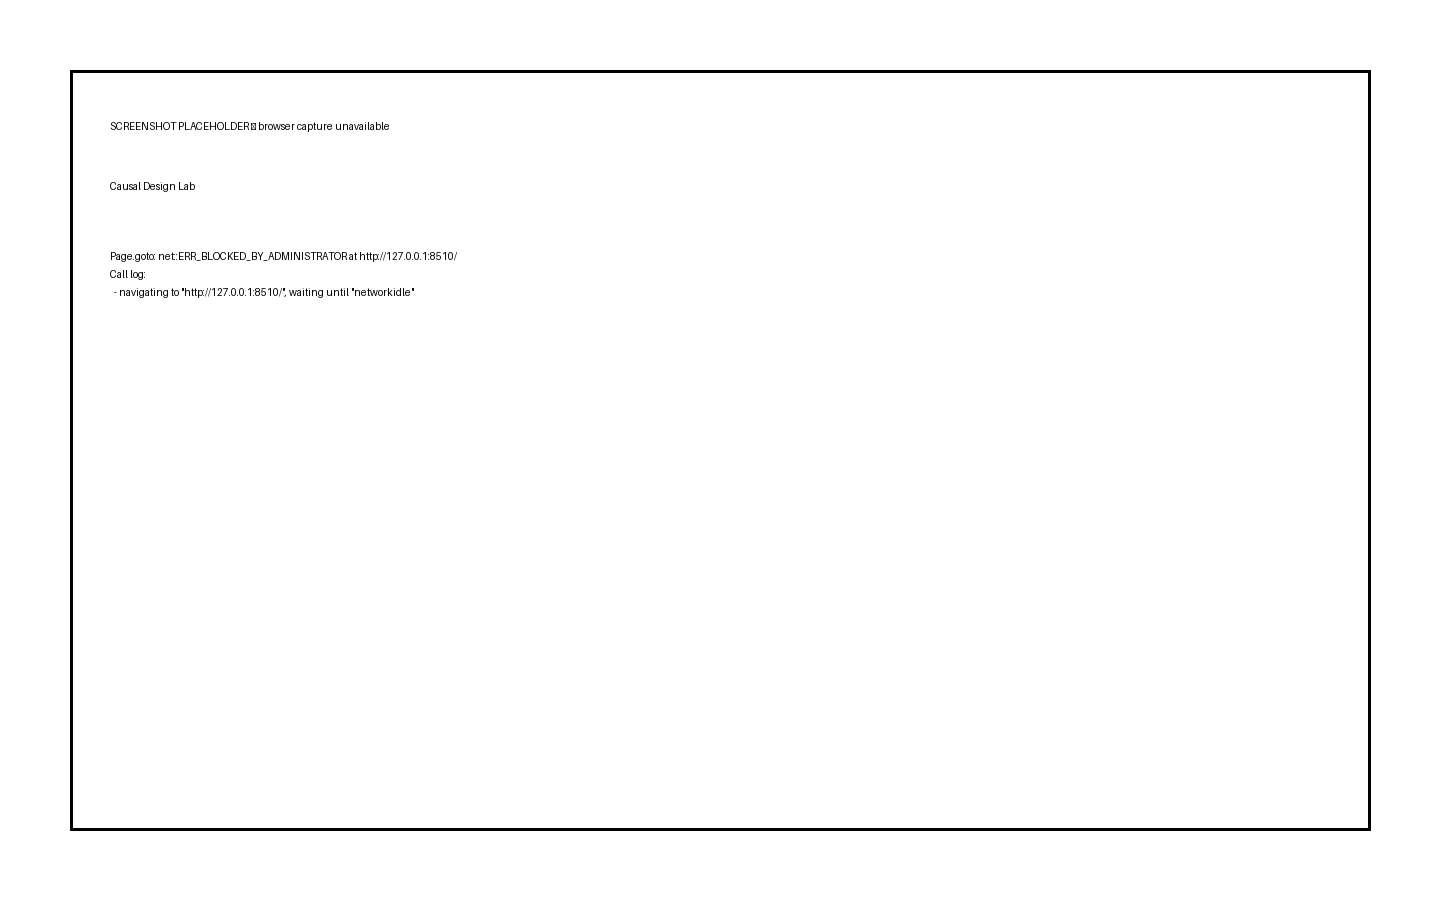
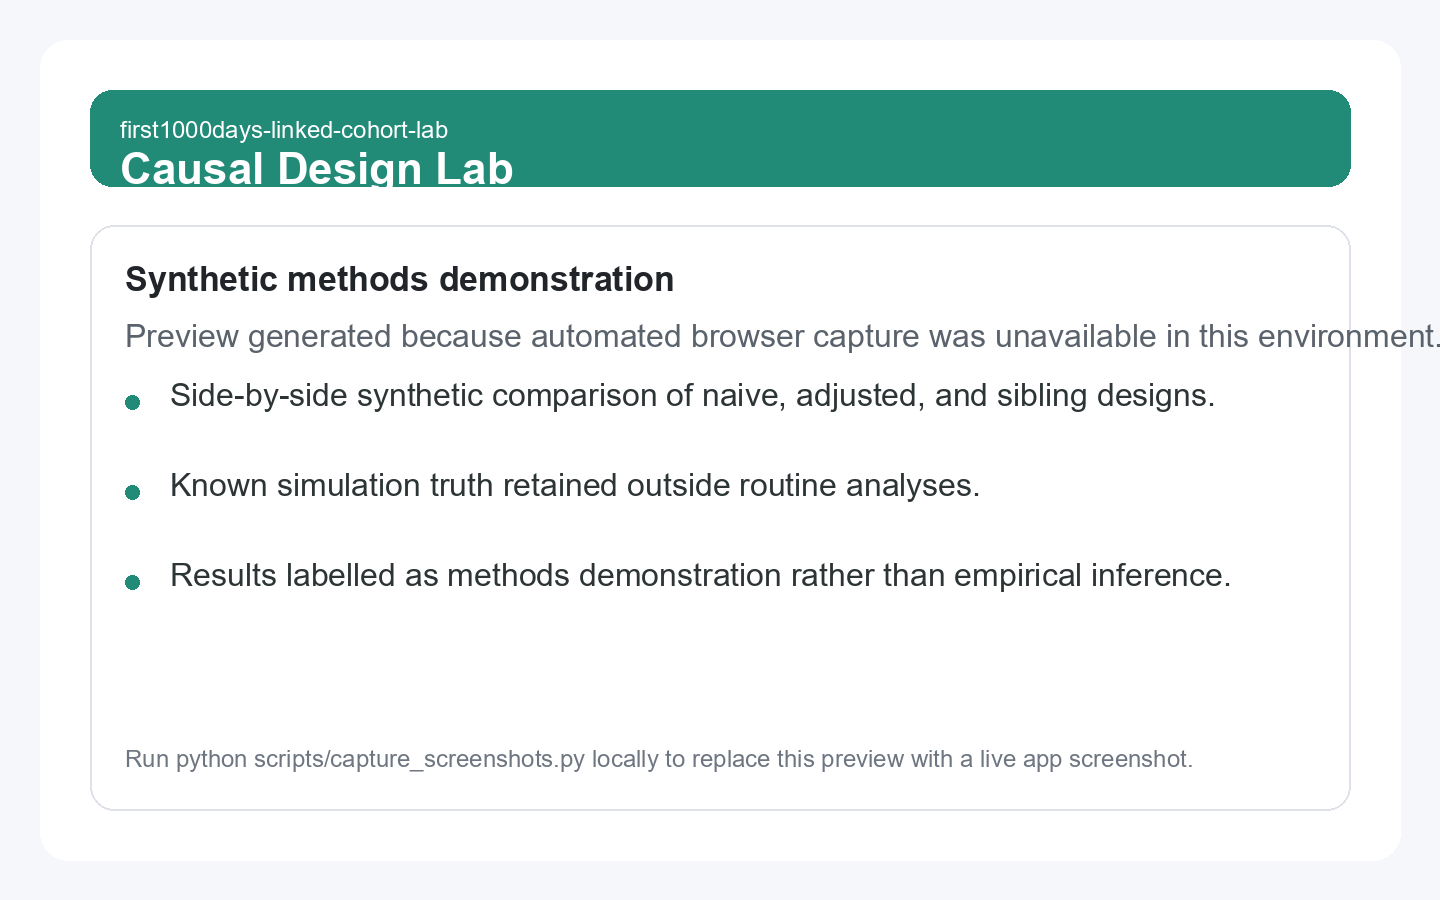
Replace broken screenshot placeholders

diff --git a/scripts/capture_screenshots.py b/scripts/capture_screenshots.py
@@ -10,20 +10,61 @@ import time
 from pathlib import Path
 from urllib.request import urlopen
 
-from PIL import Image, ImageDraw
+from PIL import Image, ImageDraw, ImageFont
 
 ROOT = Path(__file__).resolve().parents[1]
 
 
-def placeholder(path: Path, title: str, error: str) -> None:
-    """Create a clearly labelled placeholder when browser automation is unavailable."""
+def load_font(size: int, bold: bool = False) -> ImageFont.FreeTypeFont | ImageFont.ImageFont:
+    """Load a broadly available system font and fall back safely."""
 
-    image = Image.new("RGB", (1440, 900), "white")
+    candidates = [
+        Path("C:/Windows/Fonts/arialbd.ttf" if bold else "C:/Windows/Fonts/arial.ttf"),
+        Path("/usr/share/fonts/truetype/dejavu/DejaVuSans-Bold.ttf" if bold else "/usr/share/fonts/truetype/dejavu/DejaVuSans.ttf"),
+    ]
+    for candidate in candidates:
+        if candidate.exists():
+            return ImageFont.truetype(str(candidate), size=size)
+    return ImageFont.load_default()
+
+
+def placeholder(path: Path, title: str, bullets: list[str], accent: tuple[int, int, int]) -> None:
+    """Create a clean preview card when browser automation is unavailable."""
+
+    width, height = 1440, 900
+    image = Image.new("RGB", (width, height), (245, 247, 250))
     draw = ImageDraw.Draw(image)
-    draw.rectangle((70, 70, 1370, 830), outline="black", width=3)
-    draw.text((110, 120), "SCREENSHOT PLACEHOLDER — browser capture unavailable", fill="black")
-    draw.text((110, 180), title, fill="black")
-    draw.multiline_text((110, 250), error[:700], fill="black", spacing=8)
+    font_small = load_font(24)
+    font_body = load_font(32)
+    font_heading = load_font(34, bold=True)
+    font_title = load_font(44, bold=True)
+
+    draw.rounded_rectangle((40, 40, width - 40, height - 40), radius=28, fill="white")
+    draw.rounded_rectangle((90, 90, width - 90, 186), radius=22, fill=accent)
+    draw.text((120, 116), "first1000days-linked-cohort-lab", fill="white", font=font_small)
+    draw.text((120, 144), title, fill="white", font=font_title)
+
+    draw.rounded_rectangle((90, 225, width - 90, 810), radius=24, outline=(222, 226, 232), width=2)
+    draw.text((125, 260), "Synthetic methods demonstration", fill=(33, 37, 41), font=font_heading)
+    draw.text(
+        (125, 318),
+        "Preview generated because automated browser capture was unavailable in this environment.",
+        fill=(90, 98, 108),
+        font=font_body,
+    )
+
+    top = 395
+    for bullet in bullets:
+        draw.rounded_rectangle((125, top, 135, top + 10), radius=5, fill=accent)
+        draw.text((160, top - 22), bullet, fill=(45, 52, 54), font=font_body)
+        top += 90
+
+    draw.text(
+        (125, 745),
+        "Run python scripts/capture_screenshots.py locally to replace this preview with a live app screenshot.",
+        fill=(110, 118, 129),
+        font=font_small,
+    )
     path.parent.mkdir(parents=True, exist_ok=True)
     image.save(path)
 
@@ -47,7 +88,17 @@ def main() -> None:
     args = parser.parse_args()
     output = args.root / "assets" / "screenshots"
     output.mkdir(parents=True, exist_ok=True)
-    command = [sys.executable, "-m", "streamlit", "run", "app.py", "--server.port", str(args.port), "--server.headless", "true"]
+    command = [
+        sys.executable,
+        "-m",
+        "streamlit",
+        "run",
+        "app.py",
+        "--server.port",
+        str(args.port),
+        "--server.headless",
+        "true",
+    ]
     process = subprocess.Popen(command, cwd=args.root, stdout=subprocess.PIPE, stderr=subprocess.STDOUT, text=True)
     try:
         wait_for_health(f"http://127.0.0.1:{args.port}/_stcore/health")
@@ -68,10 +119,37 @@ def main() -> None:
             browser.close()
         print(f"Captured screenshots in {output}")
     except Exception as exc:
-        placeholder(output / "overview.png", "Overview", str(exc))
-        placeholder(output / "causal_design_lab.png", "Causal Design Lab", str(exc))
-        placeholder(output / "prediction_evaluation.png", "Precision Risk Evaluation", str(exc))
-        print(f"Browser capture failed; labelled placeholders created: {exc}")
+        placeholder(
+            output / "overview.png",
+            "Overview",
+            [
+                "Synthetic linked-cohort construction with transparent first-1,000-days definitions.",
+                "Linkage-quality auditing, cohort flow reporting, and architecture overview.",
+                "No real patient, education, hospital, or administrative data.",
+            ],
+            accent=(32, 99, 155),
+        )
+        placeholder(
+            output / "causal_design_lab.png",
+            "Causal Design Lab",
+            [
+                "Side-by-side synthetic comparison of naive, adjusted, and sibling designs.",
+                "Known simulation truth retained outside routine analyses.",
+                "Results labelled as methods demonstration rather than empirical inference.",
+            ],
+            accent=(34, 139, 120),
+        )
+        placeholder(
+            output / "prediction_evaluation.png",
+            "Precision Risk Evaluation",
+            [
+                "Family-grouped discrimination, calibration, and subgroup summaries.",
+                "Aggregate evaluation only with no individual risk ranking or intervention use.",
+                "Synthetic early-life educational-trajectory target rather than suicide prediction.",
+            ],
+            accent=(180, 95, 45),
+        )
+        print(f"Browser capture failed; polished preview cards created instead: {exc}")
     finally:
         process.terminate()
         try:

diff --git a/assets/screenshots/README.md b/assets/screenshots/README.md
@@ -2,4 +2,4 @@
 
 Run `python scripts/capture_screenshots.py` to launch the local Streamlit application and capture fully synthetic views.
 
-The checked-in PNG files are explicitly labelled placeholders because Chromium navigation to the local Streamlit URL was blocked by the build environment's administrative browser policy. The application itself passed its local health-endpoint smoke test. Running the capture script on an unrestricted local machine replaces the placeholders with genuine application screenshots.
+If browser automation is blocked, the script now creates clean preview cards instead of dumping browser-error text into the checked-in PNGs. Running the capture script on an unrestricted local machine replaces those preview cards with genuine application screenshots.